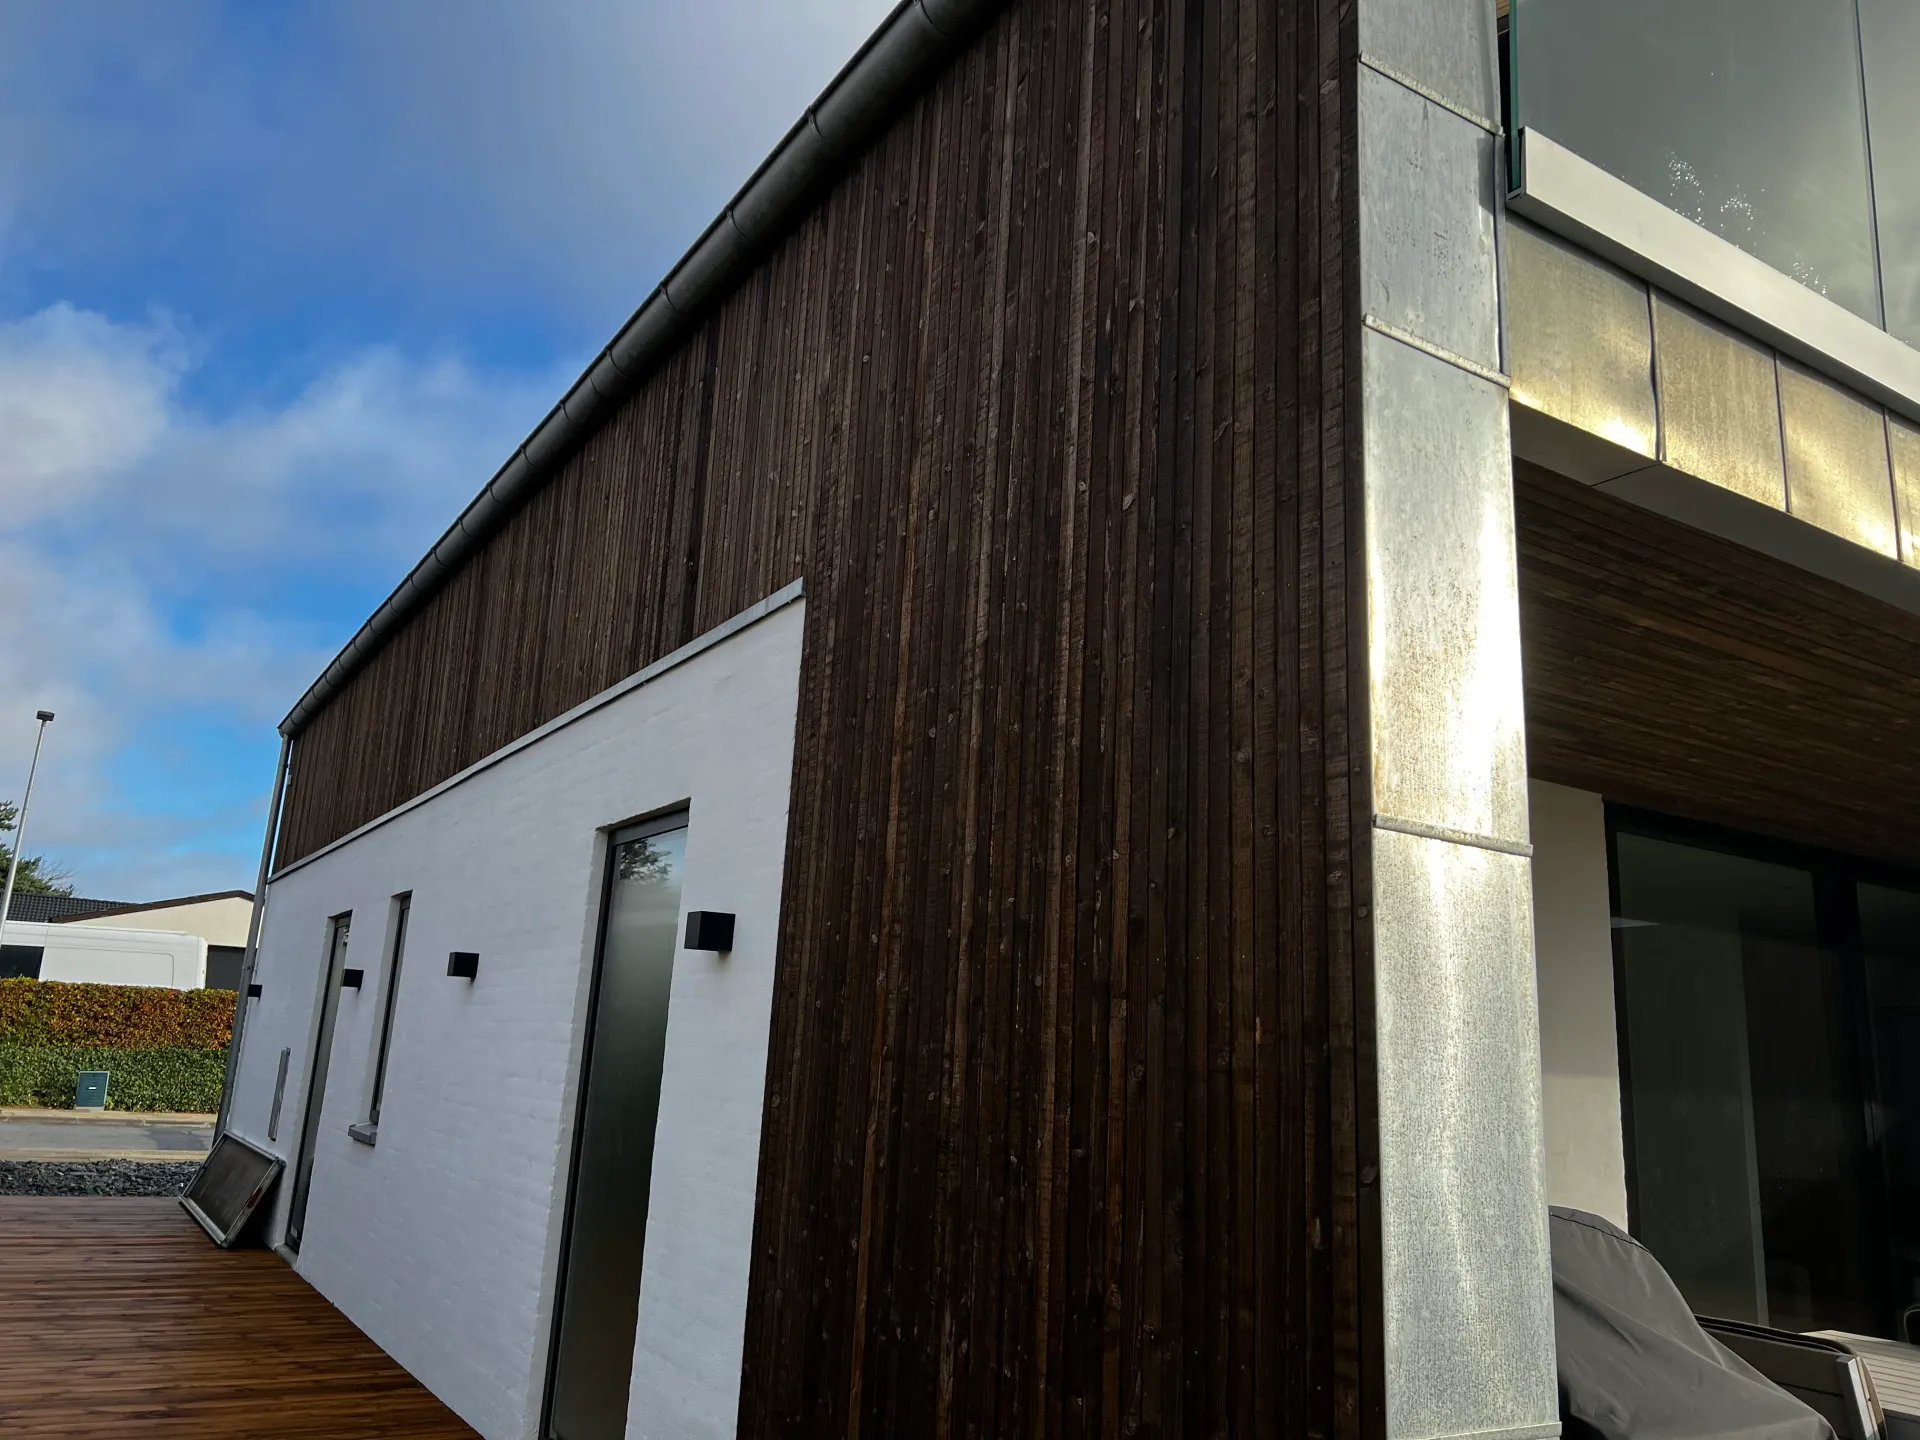
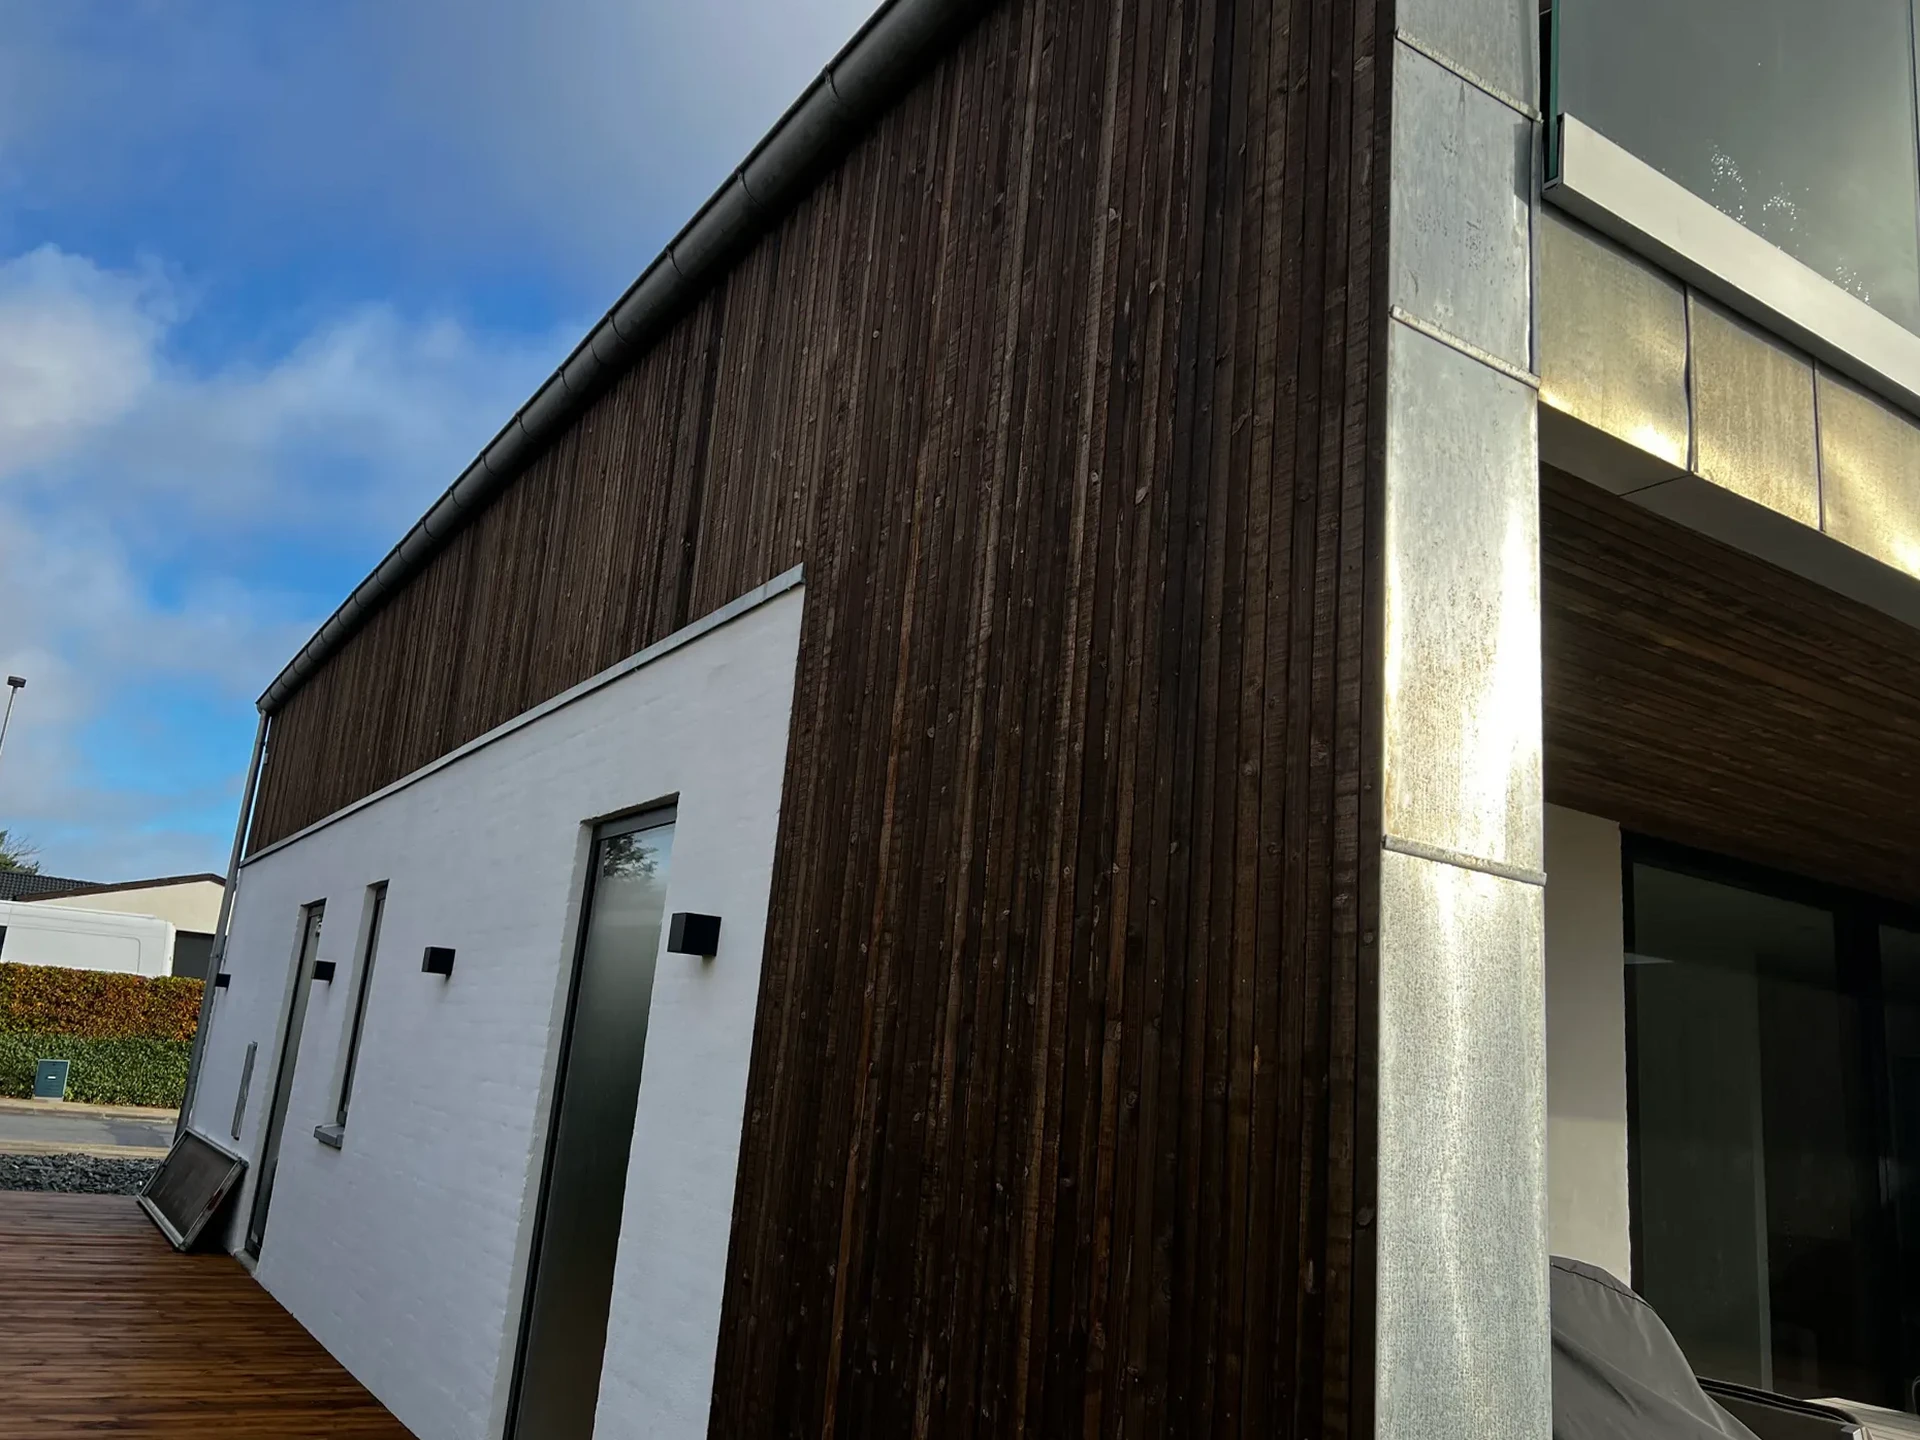
Update contact form copy and straighten tilted Olufsgade photo
- Rename "Sommerhus" dropdown option to "Nyt sommerhus" in the main
  contact form to match the "Ny villa" phrasing.
- Clarify the location field label to "Hvor i landet skal der bygges?"
  on both the contact form and the price calculator lead form.
- Straighten Brønderslev-olufsgade-efter-bagside.webp in the
  inspiration gallery, which had a ~2deg camera tilt (measured off the
  vertical corner post and corrected the same way as prior gavl-image
  fixes in this repo).

diff --git a/components/HeroForm.tsx b/components/HeroForm.tsx
@@ -89,12 +89,12 @@ export default function HeroForm() {
       <select name="projekt" defaultValue="" required>
         <option value="" disabled>Projekttype *</option>
         <option value="ny-villa">Ny villa</option>
-        <option value="sommerhus">Sommerhus</option>
+        <option value="sommerhus">Nyt sommerhus</option>
         <option value="tilbygning">Om- og tilbygning</option>
         <option value="erhverv">Erhverv</option>
         <option value="andet">Andet</option>
       </select>
-      <input type="text" name="lokation" placeholder="Hvor skal der bygges? *" required />
+      <input type="text" name="lokation" placeholder="Hvor i landet skal der bygges? *" required />
       <textarea name="besked" placeholder="Beskriv kort dit projekt… *" required />
       
       {error && (

diff --git a/components/PrisResultDoc.tsx b/components/PrisResultDoc.tsx
@@ -248,7 +248,7 @@ Estimeret prisområde:
               />
               <input
                 type="text"
-                placeholder="Hvor skal der bygges? *"
+                placeholder="Hvor i landet skal der bygges? *"
                 value={lokation}
                 onChange={(e) => setLokation(e.target.value)}
                 required
